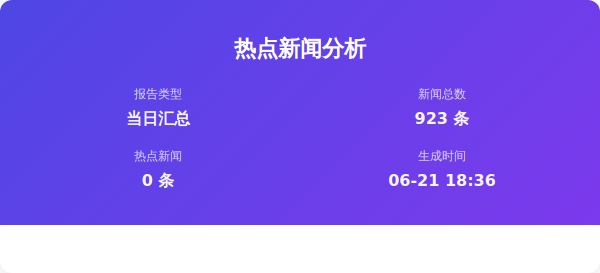
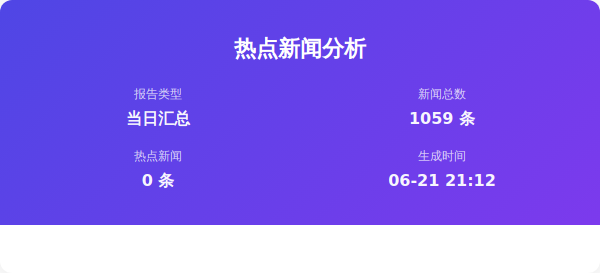
Auto update by GitHub Actions at Sun Jun 21 21:12:47 CST 2026

Changed region(s): [[0.66, 0.4103, 0.81, 0.4689], [0.72, 0.6447, 0.84, 0.674]]

diff --git a/index.html b/index.html
@@ -357,7 +357,7 @@
                     </div>
                     <div class="info-item">
                         <span class="info-label">新闻总数</span>
-                        <span class="info-value">923 条</span>
+                        <span class="info-value">1059 条</span>
                     </div>
                     <div class="info-item">
                         <span class="info-label">热点新闻</span>
@@ -365,7 +365,7 @@
                     </div>
                     <div class="info-item">
                         <span class="info-label">生成时间</span>
-                        <span class="info-value">06-21 18:36</span>
+                        <span class="info-value">06-21 21:12</span>
                     </div>
                 </div>
             </div>

diff --git a/output/2026年06月21日/html/当日汇总.html b/output/2026年06月21日/html/当日汇总.html
@@ -357,7 +357,7 @@
                     </div>
                     <div class="info-item">
                         <span class="info-label">新闻总数</span>
-                        <span class="info-value">923 条</span>
+                        <span class="info-value">1059 条</span>
                     </div>
                     <div class="info-item">
                         <span class="info-label">热点新闻</span>
@@ -365,7 +365,7 @@
                     </div>
                     <div class="info-item">
                         <span class="info-label">生成时间</span>
-                        <span class="info-value">06-21 18:36</span>
+                        <span class="info-value">06-21 21:12</span>
                     </div>
                 </div>
             </div>